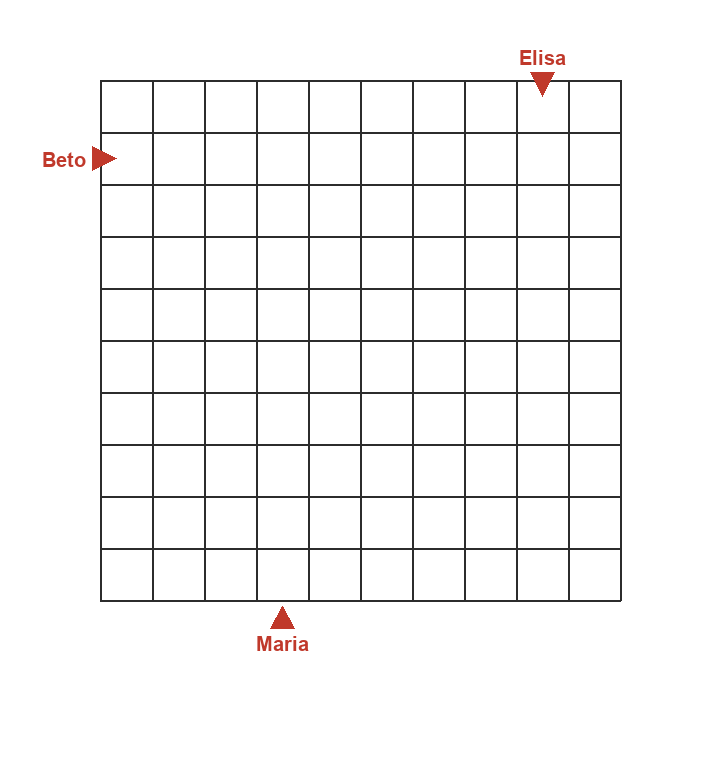
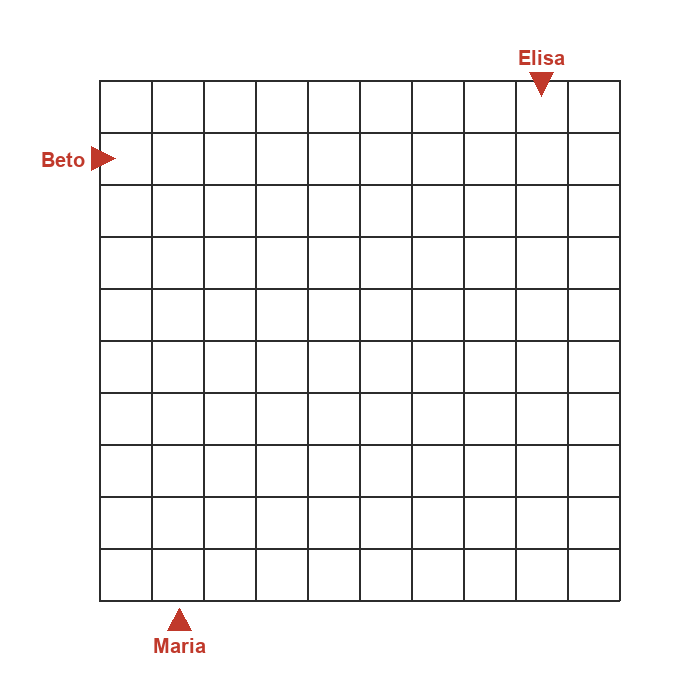
Polish ODA play button and teacher answers for Testando Ideias.
Match the BET play overlay on GameModal and order item a/b answers with notebook icon and malha below a.

diff --git a/marcas/SAE/livros/SAE_AT27_AI4_V1_LDIDA_MAT_AL_IMP_C03/capitulos/Capitulo.tsx b/marcas/SAE/livros/SAE_AT27_AI4_V1_LDIDA_MAT_AL_IMP_C03/capitulos/Capitulo.tsx
@@ -441,6 +441,7 @@ const chapterQuestions: Question[] = [
         question:
           'Considerando a localização de partida de Maria e o ponto em que as crianças se encontraram, descreva em seu caderno um trajeto que Maria possa ter percorrido.',
         correctAnswer:
+        
           'Possibilidade de resposta: Maria caminhou por 3 quadradinhos e virou à direita, depois caminhou por 2 quadradinhos e virou à esquerda. Em seguida, caminhou por 2 quadradinhos e virou à direita. Então, caminhou por 2 quadradinhos.',
       },
     ],
@@ -2099,13 +2100,28 @@ function BookCap01() {
                           <span className="question-number" style={{ fontWeight: 700 }}>1.</span>{' '}
                           <strong>BNCC:</strong> EF04MA16
                         </p>
-                        <TeacherAnswers questions={getQuestionById('ti77_q1')} />
-                        <p className="mb-2 mt-4 font-bold">Malha-resposta (item a):</p>
+                        <p className="mb-3 font-semibold">Respostas:</p>
+                        <p className="mb-2">
+                          <span className="question-number" style={{ fontWeight: 700 }}>1. </span>
+                          <span className="question-number" style={{ fontWeight: 700 }}>a) </span>
+                          O ponto de encontro é o quadradinho em que os trajetos de Beto e de Elisa se encontram (pintado de azul na malha a seguir).
+                        </p>
                         <img
                           src={capAsset('images/malha_beto_elisa_maria_resposta.png')}
                           alt="Malha com o ponto de encontro de Beto e Elisa pintado de azul"
-                          className="w-full max-w-[420px] h-auto mx-auto rounded-lg"
+                          className="mb-4 w-full max-w-[420px] h-auto mx-auto rounded-lg"
                         />
+                        <p className="mb-3 flex items-start gap-2">
+                          <img
+                            src={publicUrl('images/iconeCaderno.png')}
+                            alt=""
+                            className="h-8 w-8 object-contain flex-shrink-0 mt-0.5"
+                          />
+                          <span>
+                            <span className="question-number" style={{ fontWeight: 700 }}>b) </span>
+                            Possibilidade de resposta: Maria caminhou por 3 quadradinhos e virou à direita, depois caminhou por 2 quadradinhos e virou à esquerda. Em seguida, caminhou por 2 quadradinhos e virou à direita. Então, caminhou por 2 quadradinhos.
+                          </span>
+                        </p>
                       </>
                     }
                   />
@@ -2154,7 +2170,7 @@ function BookCap01() {
                   <img
                     src={publicUrl('images/iconeCaderno.png')}
                     alt=""
-                    className="h-10 w-10 object-contain flex-shrink-0 mt-0.5"
+                    className="h-10 w-8 object-contain flex-shrink-0 mt-0.5"
                   />
                   <span>
                     <span className="question-number" style={{ fontWeight: 700 }}>b)</span>{' '}

diff --git a/src/components/GameModal.tsx b/src/components/GameModal.tsx
@@ -68,8 +68,58 @@ function GameModal({
             <img
               src={thumbResolved}
               alt={altText}
-              className="h-auto w-full max-w-[320px] rounded-[5px] sm:max-w-[380px] md:max-w-[480px] lg:max-w-[520px]"
+              className="h-auto w-full max-w-[320px] rounded-[24px] brightness-[0.72] sm:max-w-[380px] md:max-w-[480px] lg:max-w-[520px]"
             />
+            <span
+              className="pointer-events-none absolute inset-0 rounded-[24px] bg-black/35 transition group-hover:bg-black/40"
+              aria-hidden
+            />
+            <span
+              className="pointer-events-none absolute left-1/2 top-1/2 z-10 flex h-[76px] w-[76px] -translate-x-1/2 -translate-y-1/2 items-center justify-center rounded-full border-[2.5px] border-white bg-[#7B2D8E] shadow-[0_6px_16px_rgba(0,0,0,0.35)] transition group-hover:scale-105 sm:h-[88px] sm:w-[88px]"
+              aria-hidden
+            >
+              {/* Padrão BET: play + anel em 3 arcos com sombra longa */}
+              <svg
+                viewBox="0 0 100 100"
+                className="h-[58px] w-[58px] sm:h-[66px] sm:w-[66px]"
+                aria-hidden
+              >
+                <defs>
+                  <g id="oda-play-ring">
+                    {/* gaps em ~12h, 4h e 8h */}
+                    <path
+                      d="M56.7 18.7 A32 32 0 0 1 80.4 59.9"
+                      fill="none"
+                      stroke="currentColor"
+                      strokeWidth="5.5"
+                      strokeLinecap="round"
+                    />
+                    <path
+                      d="M73.7 73.7 A32 32 0 0 1 26.3 73.7"
+                      fill="none"
+                      stroke="currentColor"
+                      strokeWidth="5.5"
+                      strokeLinecap="round"
+                    />
+                    <path
+                      d="M19.6 59.9 A32 32 0 0 1 43.3 18.7"
+                      fill="none"
+                      stroke="currentColor"
+                      strokeWidth="5.5"
+                      strokeLinecap="round"
+                    />
+                  </g>
+                </defs>
+                <g transform="translate(3.2 3.2)" color="#4A1560" opacity="0.5">
+                  <use href="#oda-play-ring" />
+                  <path d="M41 35 L41 65 L66 50 Z" fill="currentColor" />
+                </g>
+                <g color="white">
+                  <use href="#oda-play-ring" />
+                  <path d="M41 35 L41 65 L66 50 Z" fill="currentColor" />
+                </g>
+              </svg>
+            </span>
           </button>
           {introHint && (
             <p className="mt-2 text-[10px] text-slate-600" style={{ fontSize: '10px' }}>{introHint}</p>
